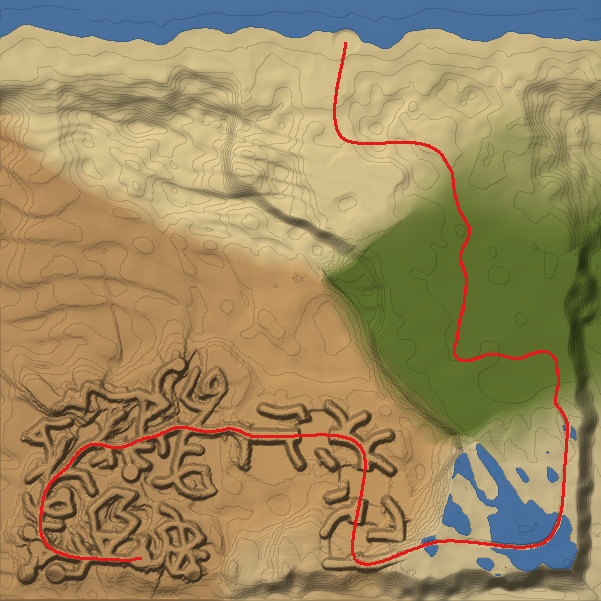
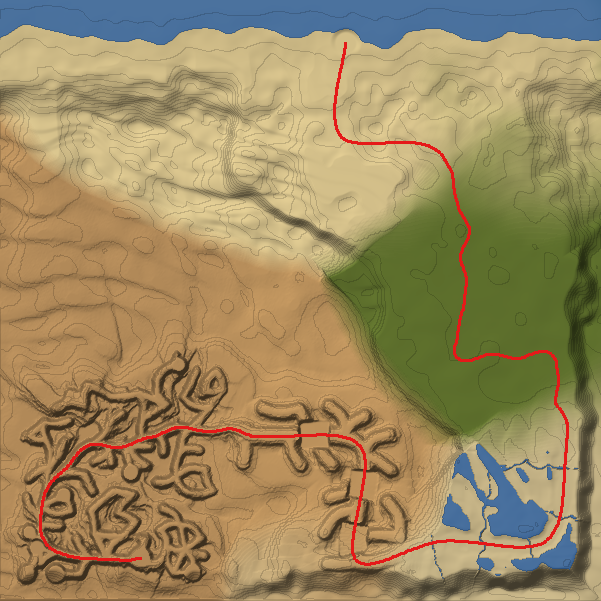
feat(tools): cañón natural, barra de arena en el agua y sombras sin dientes
- Cañón de los túneles: caras de 60-75 grados (2,6-4,2 m de anchura en
  vez de 1 m), borde superior redondeado (rim 0,35) y cimas onduladas con
  repisas solo a medias. Antes: meseta de regla y paredes a 90 grados.
- Zona encharcada: el camino es una barra de arena ancha (4-8 m) de
  orillas suaves e irregulares que sube y baja con las dunas; un canal
  estrecho y torcido la corta cada ~48 m y se salta. Antes: una tira
  estrecha con cortes regulares, como un dique.
- Sombras: normales de vértice calculadas de la propia malla (suma de
  caras); en el borde de cada trozo, las del campo, iguales en el vecino.
  El sol lleva sesgo de sombra 0,9 y ángulo de fuente 1,5: sin sombras a
  dientes por el terminador.

diff --git a/Scripts/terrain_vol/density.py b/Scripts/terrain_vol/density.py
@@ -31,7 +31,7 @@ CLIFF_LEVEL_M = 4.5                     # separacion entre niveles del laberinto
 CLIFF_LEVELS = 3
 MARSH_PATH_TOP_M = WATER_M + 1.3        # crestas por las que se cruza la zona encharcada
 END_PLAZA_M = WATER_M + 1.8             # plaza de llegada, seca, sobre la playa
-MARSH_JUMP_EVERY_M = 26.0               # cada cuanto la cresta tiene un hueco que se salta
+MARSH_JUMP_EVERY_M = 48.0               # cada cuanto un canal estrecho corta la barra y se salta
 TUNNEL_HALF_WIDTH_M = 5.0
 TUNNEL_HEIGHT_M = 5.5
 TUNNEL_LENGTH_M = (26.0, 36.0)
@@ -212,11 +212,17 @@ class MapModel:
             out = np.maximum(out, smooth(a - 12.0, a + 2.0, s) * (1.0 - smooth(b - 2.0, b + 12.0, s)))
         return 4.0 * out * (1.0 - smooth(18.0, 35.0, d))
 
-    def _rock_walls(self, X, Y, d, hw, f, top):
+    def _rock_walls(self, X, Y, d, hw, f, top, face_width: float = 1.1, rim: float = 0.0):
         """Pasillo en roca con aspecto erosionado: contrafuertes, grietas que se meten en la
-        pared y un talud de derrubios al pie. Devuelve (relieve, banda de pared, eje)."""
+        pared y un talud de derrubios al pie. face_width: anchura horizontal de la cara (1 m ~
+        pared vertical; 3-4 m, 60-75 grados). rim: fraccion de la altura que se redondea en el
+        borde de arriba (0 = arista viva). Devuelve (relieve, banda de pared, eje)."""
         face = d - hw                                   # > 0: detras de la cara de la pared
-        corridor = 1.0 - smooth(0.0, 1.1, face)
+        if rim > 0.0:
+            # Borde superior gastado: la cima baja en curva hacia el canon.
+            top = top - rim * np.maximum(top - f, 0.0) * (1.0 - smooth(0.0, 7.0 + face_width, face))
+        # La cara se abre hacia arriba: el pie es estrecho y el borde queda retranqueado.
+        corridor = 1.0 - smooth(0.0, face_width, face)
         # Grietas: lineas de ruido (pasos por cero) que cortan la pared casi hasta el suelo,
         # solo cerca de la cara y solo en parte de las paredes.
         crack = (1.0 - smooth(0.04, 0.13, np.abs(self.n_crack(X, Y)))) * smooth(0.45, 0.6, self.n_crack_mask.unit(X, Y))
@@ -263,20 +269,28 @@ class MapModel:
         tunnel = self._tunnel_mask(s_route, d_route)
         d_can = np.where(tunnel > 0.5, np.maximum(d_can, 30.0), d_can)
         f = 0.8 + 0.8 * mid
-        top = strata(f + 11.0 + 4.0 * self.n_mid.unit(X, Y) + self._ridge(s_route, d_route), 3.5)
-        heights["canyon"], bands["canyon"], axes["canyon"] = self._rock_walls(X, Y, d_can, 4.0 + width, f, top)
+        # Cimas onduladas (no una meseta de regla): repisas solo a medias, relieve grande.
+        raw_top = f + 9.0 + 5.0 * self.n_mid.unit(X, Y) + 2.5 * big + 1.2 * small + self._ridge(s_route, d_route)
+        top = 0.5 * raw_top + 0.5 * strata(raw_top, 2.5)
+        face_w = 2.6 + 1.6 * self.n_talus.unit(X, Y)
+        heights["canyon"], bands["canyon"], axes["canyon"] = self._rock_walls(
+            X, Y, d_can, 4.0 + width, f, top, face_width=face_w, rim=0.35)
         floors["canyon"] = f
 
         # Zona encharcada: dunas cuyas vaguadas quedan bajo el agua (laguitos); se cruza por
         # una cresta seca que sigue la ruta, con algun hueco que se salta.
         # Laguitos en las hondonadas de un relieve de manchas (no en franjas) y dunas encima.
         base = WATER_M - 0.6 + 3.0 * self.n_pond(X, Y) + self._dunes(X, Y, 2.4, 22.0)
-        crest_w = 1.3 + 1.0 * self.n_width.unit(X, Y)
-        crest = 1.0 - smooth(crest_w, crest_w + 1.6, d_route + 1.2 * self.n_crest(X, Y))
-        gap = 1.0 - smooth(0.5, 0.9, np.abs(np.mod(s_route, MARSH_JUMP_EVERY_M) - MARSH_JUMP_EVERY_M / 2))
-        crest = crest * (1.0 - gap * smooth(0.85, 0.95, w["marsh"]))
-        path_top = MARSH_PATH_TOP_M + 0.3 * small + 0.35 * self.n_crest(Y, X)
-        heights["marsh"] = base * (1.0 - crest) + np.maximum(base, path_top) * crest
+        # Barra de arena natural (no un dique): ancha, de orillas suaves e irregulares, que
+        # sube y baja con las dunas; los charcos la bordean. De vez en cuando un canal
+        # estrecho y torcido la corta y se salta.
+        bar_w = 4.0 + 4.0 * self.n_width.unit(X, Y)
+        crest = 1.0 - smooth(bar_w, bar_w + 9.0, d_route + 3.0 * self.n_crest(X, Y))
+        channel_s = np.mod(s_route + 6.0 * self.n_crest(Y, X), MARSH_JUMP_EVERY_M) - MARSH_JUMP_EVERY_M / 2
+        gap = (1.0 - smooth(0.5, 1.0, np.abs(channel_s))) * smooth(0.85, 0.95, w["marsh"])
+        path_top = MARSH_PATH_TOP_M + 0.5 * self._dunes(X, Y, 1.2, 16.0) + 0.3 * small
+        land = base * (1.0 - crest) + np.maximum(base, path_top) * crest
+        heights["marsh"] = land * (1.0 - gap) + np.minimum(land, WATER_M - 0.6) * gap
         floors["marsh"] = np.full_like(X, MARSH_PATH_TOP_M)
         bands["marsh"] = np.zeros_like(X)
         axes["marsh"] = 1.0 - smooth(0.5, 1.5, d_route)

diff --git a/Scripts/terrain_vol/mesh.py b/Scripts/terrain_vol/mesh.py
@@ -80,6 +80,17 @@ def taubin(vertices: np.ndarray, faces: np.ndarray, pinned: np.ndarray, iteratio
     return v
 
 
+def mesh_normals(vertices: np.ndarray, faces: np.ndarray, count: int) -> np.ndarray:
+    """Normal de vertice = suma de las normales de sus caras (ponderadas por area), con la
+    cara visible de Unreal (opuesta a (B-A)x(C-A))."""
+    a, b, c = vertices[faces[:, 0]], vertices[faces[:, 1]], vertices[faces[:, 2]]
+    face = -np.cross(b - a, c - a)
+    out = np.zeros((count, 3))
+    for k in range(3):
+        np.add.at(out, faces[:, k], face)
+    return out / np.maximum(np.linalg.norm(out, axis=1, keepdims=True), 1e-9)
+
+
 def hash_uniform(ix: np.ndarray, iy: np.ndarray, salt: int) -> np.ndarray:
     """Numero en [0, 1) determinista por celda de la rejilla global (independiente del trozo)."""
     h = (ix.astype(np.uint64) * np.uint64(0x9E3779B97F4A7C15)) ^ (iy.astype(np.uint64) * np.uint64(0xC2B2AE3D27D4EB4F)) \
@@ -187,6 +198,7 @@ def build_chunk(model: MapModel, col: int, row: int) -> ChunkMesh:
     pinned = (verts[:, 0] < 1e-6) | (verts[:, 0] > edge * STEP_XY_M - 1e-6) \
         | (verts[:, 1] < 1e-6) | (verts[:, 1] > edge * STEP_XY_M - 1e-6)
     smoothed = taubin(verts, faces, pinned, SMOOTH_ITERATIONS)
+    # (las normales de la malla se calculan tras orientar las caras: ver mesh_normals)
     x0, _, y0, _ = cell_bounds(col, row)
     world = smoothed + np.array([x0, y0, Z_MIN_M])
 
@@ -202,6 +214,10 @@ def build_chunk(model: MapModel, col: int, row: int) -> ChunkMesh:
     flip = np.einsum("ij,ij->i", cross, face_n) > 0.0
     faces = faces.copy()
     faces[flip] = faces[flip][:, [0, 2, 1]]
+
+    # Normales de la propia malla (suma de caras): la luz sigue a los triangulos y las
+    # sombras no salen a dientes. En el borde del trozo, las del campo: iguales en el vecino.
+    normals = np.where(pinned[:, None], normals, mesh_normals(world, faces, len(world)))
 
     cx, cy = cell_center(col, row)
     local = (world - np.array([cx, cy, 0.0])) * UU_PER_M

diff --git a/Scripts/import_terrain_mesh.py b/Scripts/import_terrain_mesh.py
@@ -79,6 +79,15 @@ def spawn(actor_class, label, location, rotation=unreal.Rotator(0.0, 0.0, 0.0)):
     return actor
 
 
+def configure_sun(sun):
+    """Sombras suaves sobre el terreno de marching cubes: sesgo para que las caras casi de
+    canto no se sombreen a si mismas a dientes, y penumbra algo mas ancha."""
+    light = sun.get_component_by_class(unreal.DirectionalLightComponent)
+    light.set_editor_property("shadow_bias", 0.9)
+    light.set_editor_property("shadow_slope_bias", 0.9)
+    light.set_editor_property("light_source_angle", 1.5)
+
+
 def existing_labels():
     return {a.get_actor_label(): a for a in unreal.get_editor_subsystem(unreal.EditorActorSubsystem).get_all_level_actors()}
 
@@ -109,6 +118,8 @@ def build_level(manifest, assets, level_path):
             tile.set_editor_property("foliage_material", foliage_material)
         tile.set_editor_property("mesh_asset", assets[cell["name"]])
 
+    if "Sun" in have:
+        configure_sun(have["Sun"])
     if "Water" in have:
         level_subsystem.save_current_level()
         return
@@ -126,7 +137,8 @@ def build_level(manifest, assets, level_path):
         component.set_material(0, water_material)
     water.set_actor_scale3d(unreal.Vector(extent / PLANE_SIZE_UU, extent / PLANE_SIZE_UU, 1.0))
 
-    spawn(unreal.DirectionalLight, "Sun", unreal.Vector(0.0, 0.0, 5000.0), unreal.Rotator(0.0, -50.0, 35.0))
+    sun = spawn(unreal.DirectionalLight, "Sun", unreal.Vector(0.0, 0.0, 5000.0), unreal.Rotator(0.0, -50.0, 35.0))
+    configure_sun(sun)
     spawn(unreal.SkyAtmosphere, "SkyAtmosphere", unreal.Vector(0.0, 0.0, 0.0))
     sky = spawn(unreal.SkyLight, "SkyLight", unreal.Vector(0.0, 0.0, 5000.0))
     sky_component = sky.get_component_by_class(unreal.SkyLightComponent)
